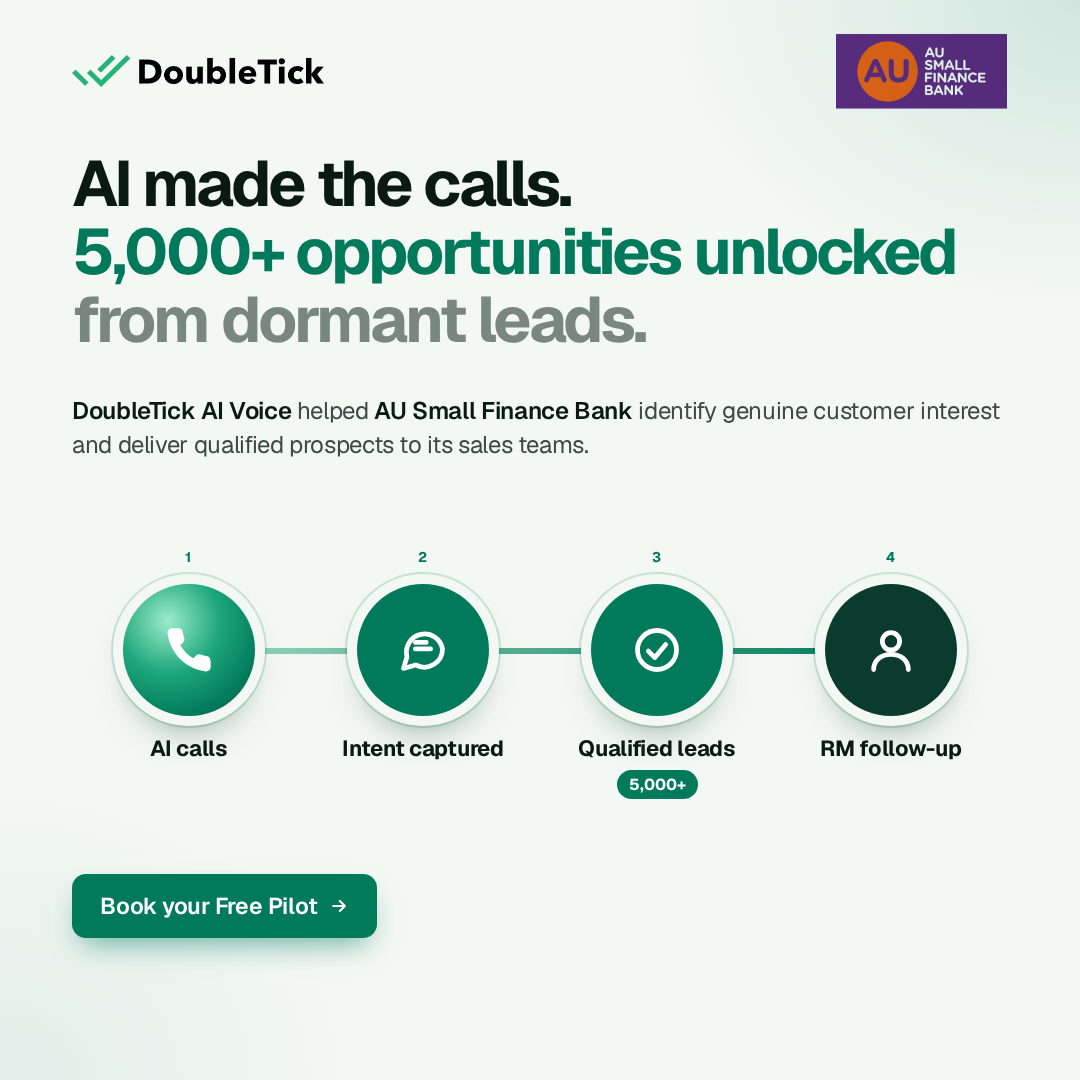
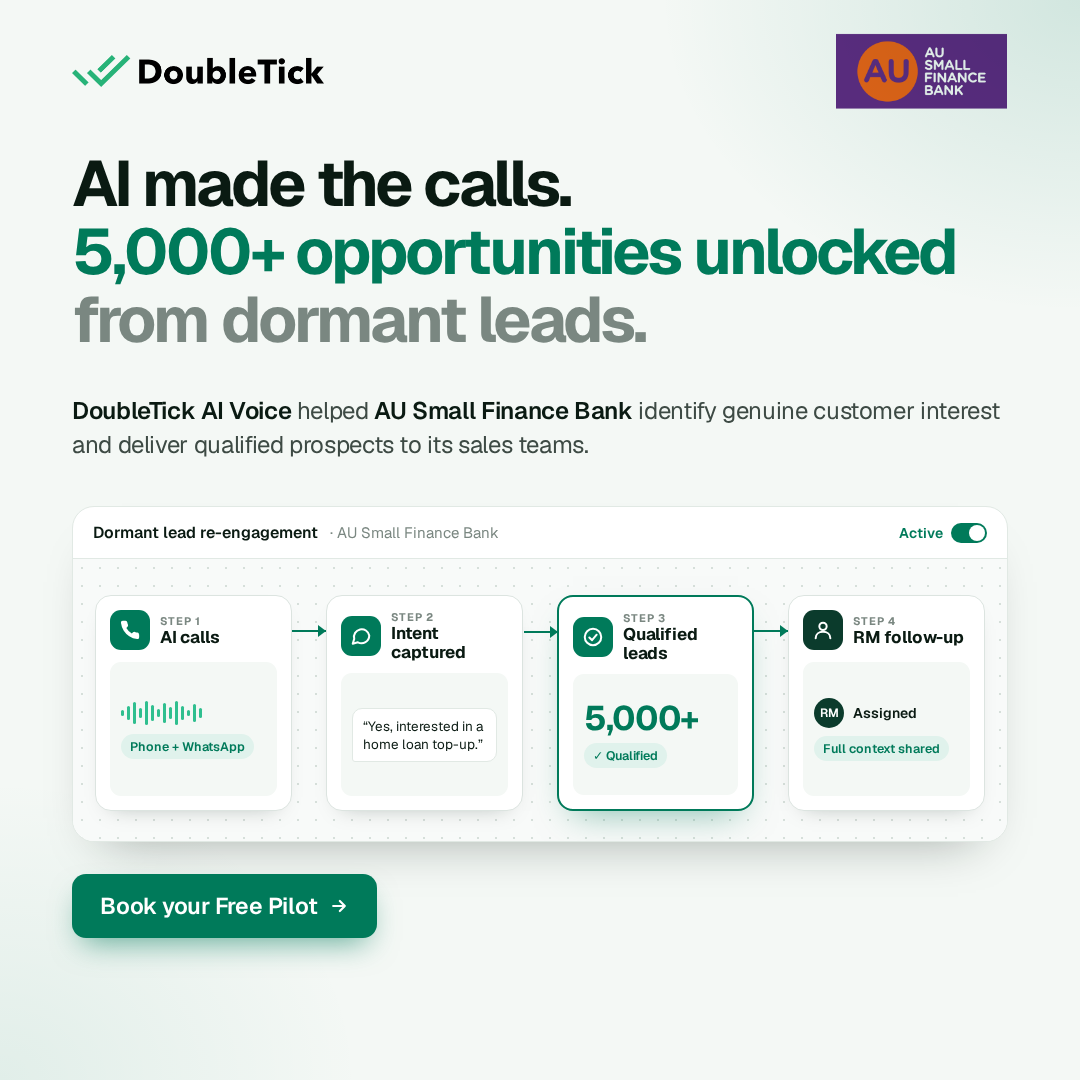
feat: SaaS workflow-builder visual for AU v8 ad
Claude-Session: https://claude.ai/code/session_013Hi5o4KgvuLbKTeGkStAKX

Changed region(s): [[0.0917, 0.4583, 0.9167, 0.7944]]

diff --git a/ads/doubletick-case-au-v8/index.html b/ads/doubletick-case-au-v8/index.html
@@ -19,18 +19,35 @@
   .sub { left: 72px; right: 72px; top: 394px; font-size: 24px; line-height: 1.4; color: var(--ink-2); letter-spacing: -0.015em; }
   .sub b { color: var(--ink); font-weight: 600; }
 
-  /* visual flow: AI calls -> intent captured -> qualified leads -> RM follow-up */
-  .vis { left: 72px; top: 548px; width: 936px; height: 290px; }
-  .track { position: absolute; left: 117px; right: 117px; top: 100px; height: 6px; border-radius: 3px; background: linear-gradient(90deg, #9ED8C2, #007A5A); }
-  .steps { position: absolute; inset: 0; display: grid; grid-template-columns: repeat(4, 1fr); }
-  .step { display: flex; flex-direction: column; align-items: center; gap: 18px; position: relative; }
-  .num { font-size: 14px; font-weight: 700; color: var(--green); letter-spacing: .08em; height: 18px; }
-  .ic { width: 132px; height: 132px; border-radius: 50%; display: grid; place-items: center; background: var(--green);
-    box-shadow: 0 0 0 10px var(--bg), 0 0 0 12px rgba(0,122,90,.18), 0 22px 40px -18px rgba(0,60,43,.7); }
-  .s0 .ic { background: radial-gradient(circle at 34% 28%, #9BEBCB 0%, #1FA77B 40%, #007A5A 75%, #005A42 100%); }
-  .s3 .ic { background: #0B3B2C; }
-  .t { font-size: 22px; font-weight: 700; letter-spacing: -0.015em; text-align: center; }
-  .s2 .t::after { content: "5,000+"; display: block; width: max-content; margin: 8px auto 0; font-size: 16px; font-weight: 700; color: #fff; background: var(--green); padding: 4px 12px; border-radius: 999px; letter-spacing: 0; }
+  /* visual: SaaS workflow-builder canvas */
+  .vis { left: 72px; top: 506px; width: 936px; height: 336px; border-radius: 22px; background: #fff; border: 1px solid var(--line); overflow: hidden;
+    box-shadow: 0 26px 50px -32px rgba(10,26,18,.4); }
+  .wbar { height: 52px; display: flex; align-items: center; gap: 12px; padding: 0 20px; border-bottom: 1px solid var(--line); }
+  .wbar .tt { font-size: 16px; font-weight: 600; }
+  .wbar .crumb { font-size: 15px; color: var(--muted); }
+  .wbar .tog { margin-left: auto; display: flex; align-items: center; gap: 8px; font-size: 14px; font-weight: 600; color: var(--green); }
+  .wbar .tog i { width: 36px; height: 20px; border-radius: 10px; background: var(--green); position: relative; display: block; }
+  .wbar .tog i::after { content: ""; position: absolute; right: 2px; top: 2px; width: 16px; height: 16px; border-radius: 50%; background: #fff; }
+  .canvas { position: absolute; left: 0; right: 0; top: 52px; bottom: 0;
+    background-color: #F8FAF9; background-image: radial-gradient(#D6DFDA 1.2px, transparent 1.2px); background-size: 18px 18px; }
+  .nodes { position: absolute; left: 22px; right: 22px; top: 36px; display: grid; grid-template-columns: repeat(4, 1fr); gap: 34px; }
+  .node { background: #fff; border: 1px solid #DCE4E0; border-radius: 16px; padding: 14px; display: flex; flex-direction: column; gap: 12px; position: relative;
+    box-shadow: 0 10px 22px -16px rgba(10,26,18,.35); height: 216px; }
+  .node.hl { border: 2px solid var(--green); box-shadow: 0 16px 34px -16px rgba(0,122,90,.5); }
+  .node + .node::before { content: ""; position: absolute; left: -35px; top: 34px; width: 34px; height: 2px; background: var(--green); }
+  .node + .node::after { content: ""; position: absolute; left: -9px; top: 29px; border: 6px solid transparent; border-left: 8px solid var(--green); border-right: 0; }
+  .nh { display: flex; align-items: center; gap: 10px; }
+  .ni { width: 40px; height: 40px; border-radius: 11px; display: grid; place-items: center; flex: none; background: var(--green); }
+  .nk { font-size: 11px; font-weight: 700; letter-spacing: .08em; text-transform: uppercase; color: var(--muted); }
+  .nt { font-size: 17px; font-weight: 700; letter-spacing: -0.01em; line-height: 1.1; }
+  .nb { flex: 1; border-radius: 11px; background: #F4F8F5; padding: 11px; display: flex; flex-direction: column; justify-content: center; gap: 8px; font-size: 14px; color: var(--ink-2); }
+  .wv { display: flex; align-items: center; gap: 3px; height: 26px; }
+  .wv b { width: 3px; border-radius: 2px; background: var(--mint); display: block; }
+  .pill { align-self: flex-start; font-size: 12.5px; font-weight: 600; padding: 4px 9px; border-radius: 999px; background: var(--soft); color: var(--green); }
+  .big { font-size: 34px; font-weight: 700; letter-spacing: -0.04em; color: var(--green); line-height: 1; }
+  .bubble { background: #fff; border: 1px solid var(--line); border-radius: 10px 10px 10px 3px; padding: 8px 10px; font-size: 13.5px; color: var(--ink); }
+  .rmrow { display: flex; align-items: center; gap: 9px; font-weight: 600; color: var(--ink); }
+  .rmrow .av { width: 30px; height: 30px; border-radius: 50%; background: #0B3B2C; display: grid; place-items: center; font-size: 12px; color: #fff; }
   .cta { left: 72px; top: 874px; }
   .btn { background: var(--green); color: #fff; font-size: 23px; font-weight: 600; letter-spacing: -0.01em; padding: 17px 28px; border-radius: 14px;
     display: flex; align-items: center; gap: 12px; box-shadow: 0 14px 30px -10px rgba(0,122,90,.6); }
@@ -41,7 +58,19 @@
   <h1>AI made the calls.<br/><em>5,000+ opportunities unlocked</em><br/><span class="m">from dormant leads.</span></h1>
   <p class="sub"><b>DoubleTick AI Voice</b> helped <b>AU Small Finance Bank</b> identify genuine customer interest and deliver qualified prospects to its sales teams.</p>
 
-  <div class="vis"><div class="track"></div><div class="steps"><div class="step s0"><div class="num">1</div><div class="ic"><svg width="52" height="52" viewBox="0 0 24 24" fill="#fff"><path d="M22 16.9v3a2 2 0 0 1-2.2 2 19.8 19.8 0 0 1-8.6-3.1 19.5 19.5 0 0 1-6-6A19.8 19.8 0 0 1 2.1 4.2 2 2 0 0 1 4.1 2h3a2 2 0 0 1 2 1.7c.1.9.4 1.8.7 2.7a2 2 0 0 1-.5 2.1L8 9.8a16 16 0 0 0 6 6l1.3-1.3a2 2 0 0 1 2.1-.4c.9.3 1.8.6 2.7.7a2 2 0 0 1 1.7 2z"/></svg></div><div class="t">AI calls</div></div><div class="step s1"><div class="num">2</div><div class="ic"><svg width="52" height="52" viewBox="0 0 24 24" fill="none" stroke="#fff" stroke-width="2.2" stroke-linecap="round" stroke-linejoin="round"><path d="M21 11.5a8.4 8.4 0 0 1-12.4 7.4L3 20.5l1.6-5.4A8.4 8.4 0 1 1 21 11.5z"/><path d="M8.5 11.5h7M8.5 8.5h5"/></svg></div><div class="t">Intent captured</div></div><div class="step s2"><div class="num">3</div><div class="ic"><svg width="52" height="52" viewBox="0 0 24 24" fill="none" stroke="#fff" stroke-width="2.2" stroke-linecap="round" stroke-linejoin="round"><circle cx="12" cy="12" r="9"/><path d="M8 12.5l3 3 5-6"/></svg></div><div class="t">Qualified leads</div></div><div class="step s3"><div class="num">4</div><div class="ic"><svg width="52" height="52" viewBox="0 0 24 24" fill="none" stroke="#fff" stroke-width="2.2" stroke-linecap="round" stroke-linejoin="round"><circle cx="12" cy="8" r="4"/><path d="M4 21c0-4.4 3.6-7 8-7s8 2.6 8 7"/></svg></div><div class="t">RM follow-up</div></div></div></div>
+  <div class="vis">
+    <div class="wbar"><span class="tt">Dormant lead re-engagement</span><span class="crumb">· AU Small Finance Bank</span><span class="tog">Active<i></i></span></div>
+    <div class="canvas"><div class="nodes">
+      <div class="node"><div class="nh"><span class="ni"><svg width="22" height="22" viewBox="0 0 24 24" fill="#fff"><path d="M22 16.9v3a2 2 0 0 1-2.2 2 19.8 19.8 0 0 1-8.6-3.1 19.5 19.5 0 0 1-6-6A19.8 19.8 0 0 1 2.1 4.2 2 2 0 0 1 4.1 2h3a2 2 0 0 1 2 1.7c.1.9.4 1.8.7 2.7a2 2 0 0 1-.5 2.1L8 9.8a16 16 0 0 0 6 6l1.3-1.3a2 2 0 0 1 2.1-.4c.9.3 1.8.6 2.7.7a2 2 0 0 1 1.7 2z"/></svg></span><div><div class="nk">Step 1</div><div class="nt">AI calls</div></div></div>
+        <div class="nb"><div class="wv"><b style="height:6px"></b><b style="height:14px"></b><b style="height:22px"></b><b style="height:10px"></b><b style="height:24px"></b><b style="height:16px"></b><b style="height:8px"></b><b style="height:20px"></b><b style="height:12px"></b><b style="height:24px"></b><b style="height:14px"></b><b style="height:6px"></b><b style="height:18px"></b><b style="height:10px"></b></div><span class="pill">Phone + WhatsApp</span></div></div>
+      <div class="node"><div class="nh"><span class="ni"><svg width="22" height="22" viewBox="0 0 24 24" fill="none" stroke="#fff" stroke-width="2.2" stroke-linecap="round" stroke-linejoin="round"><path d="M21 11.5a8.4 8.4 0 0 1-12.4 7.4L3 20.5l1.6-5.4A8.4 8.4 0 1 1 21 11.5z"/></svg></span><div><div class="nk">Step 2</div><div class="nt">Intent captured</div></div></div>
+        <div class="nb"><div class="bubble">&ldquo;Yes, interested in a home loan top-up.&rdquo;</div></div></div>
+      <div class="node hl"><div class="nh"><span class="ni"><svg width="22" height="22" viewBox="0 0 24 24" fill="none" stroke="#fff" stroke-width="2.2" stroke-linecap="round" stroke-linejoin="round"><circle cx="12" cy="12" r="9"/><path d="M8 12.5l3 3 5-6"/></svg></span><div><div class="nk">Step 3</div><div class="nt">Qualified leads</div></div></div>
+        <div class="nb"><div class="big">5,000+</div><span class="pill">✓ Qualified</span></div></div>
+      <div class="node"><div class="nh"><span class="ni" style="background:#0B3B2C"><svg width="22" height="22" viewBox="0 0 24 24" fill="none" stroke="#fff" stroke-width="2.2" stroke-linecap="round" stroke-linejoin="round"><circle cx="12" cy="8" r="4"/><path d="M4 21c0-4.4 3.6-7 8-7s8 2.6 8 7"/></svg></span><div><div class="nk">Step 4</div><div class="nt">RM follow-up</div></div></div>
+        <div class="nb"><div class="rmrow"><span class="av">RM</span>Assigned</div><span class="pill">Full context shared</span></div></div>
+    </div></div>
+  </div>
 
   <div class="cta"><div class="btn">Book your Free Pilot
     <svg width="20" height="20" viewBox="0 0 24 24" fill="none" stroke="#fff" stroke-width="2.6" stroke-linecap="round" stroke-linejoin="round"><path d="M5 12h14M13 6l6 6-6 6"/></svg></div></div>
